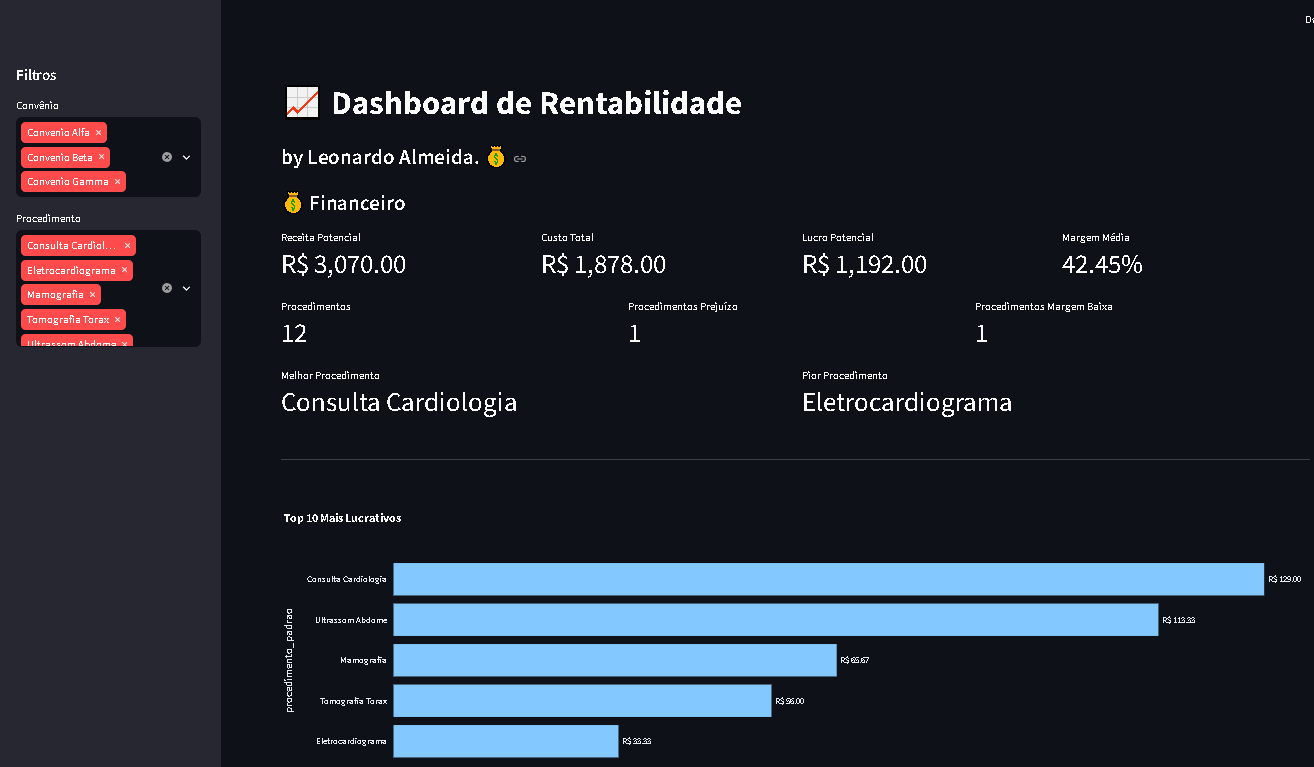
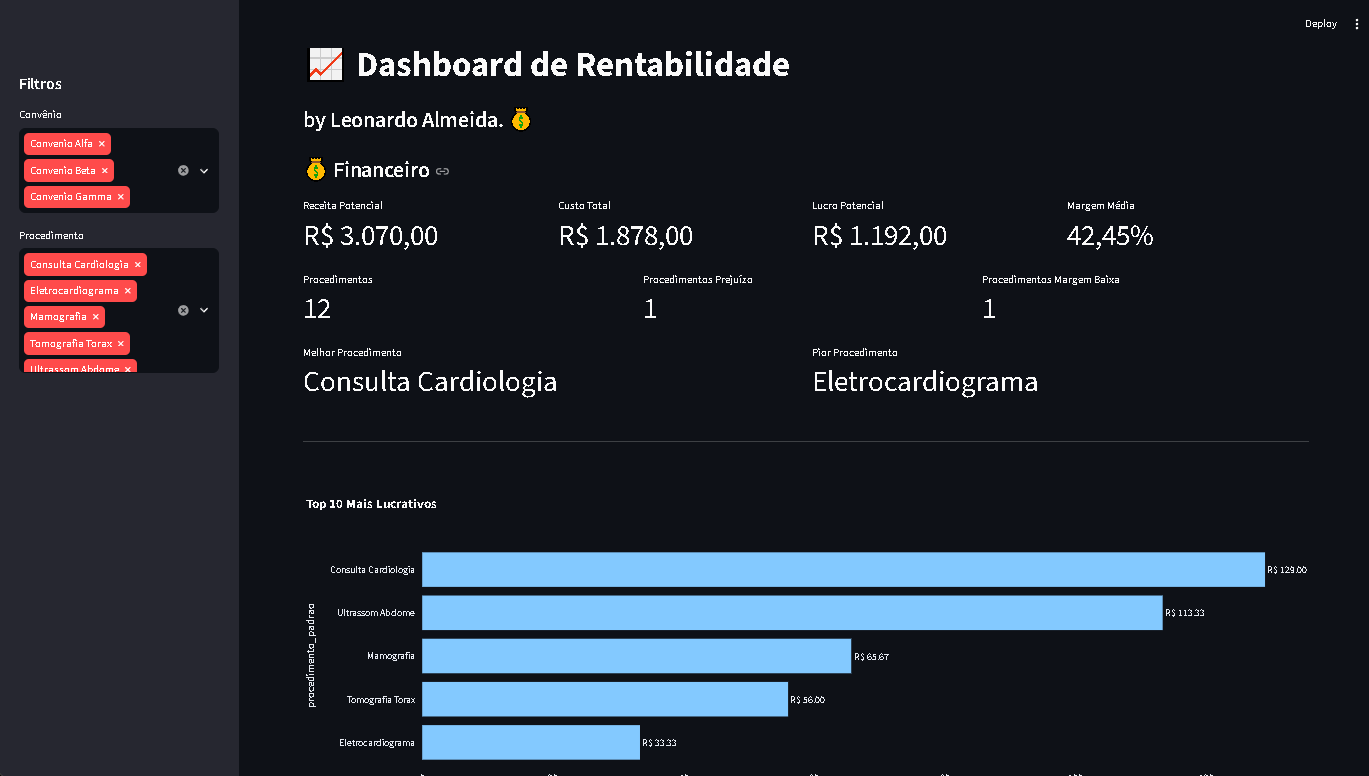
fix: update dashboard formatting and Streamlit layout

diff --git a/dashboard/app.py b/dashboard/app.py
@@ -75,6 +75,15 @@ df_filtrado = df_filtrado[
 # =====================================
 # KPIs
 # =====================================
+def formatar_moeda(valor):
+    return (
+        f"R$ {valor:,.2f}"
+        .replace(",", "X")
+        .replace(".", ",")
+        .replace("X", ".")
+    )
+def formatar_percentual(valor):
+    return f"{valor:.2f}%".replace(".", ",")
 
 receita_total = (
     df_filtrado["receita_media"]
@@ -138,22 +147,22 @@ col1, col2, col3, col4 = st.columns(4)
 
 col1.metric(
     "Receita Potencial",
-    f"R$ {receita_total:,.2f}"
+    formatar_moeda(receita_total)
 )
 
 col2.metric(
     "Custo Total",
-    f"R$ {custo_total:,.2f}"
+    formatar_moeda(custo_total)
 )
 
 col3.metric(
     "Lucro Potencial",
-    f"R$ {lucro_total:,.2f}"
+    formatar_moeda(lucro_total)
 )
 
 col4.metric(
     "Margem Média",
-    f"{margem_media:.2f}%"
+    formatar_percentual(margem_media)
 )
 
 col5, col6, col7 = st.columns(3)
@@ -266,7 +275,7 @@ fig_prejuizo.update_traces(
 
 st.plotly_chart(
     fig_prejuizo,
-    use_container_width=True
+    width="stretch"
 )
 
 # =====================================
@@ -291,7 +300,7 @@ fig_conv = px.bar(
 
 st.plotly_chart(
     fig_conv,
-    use_container_width=True
+    width="stretch"
 )
 
 # =====================================
@@ -339,7 +348,7 @@ fig_rank.update_yaxes(
 
 st.plotly_chart(
     fig_rank,
-    use_container_width=True
+    width="stretch"
 )
 
 # =====================================
@@ -374,7 +383,7 @@ fig_comp = px.scatter(
 
 st.plotly_chart(
     fig_comp,
-    use_container_width=True
+    width="stretch"
 )
 
 # =====================================
@@ -396,7 +405,7 @@ st.subheader(
 
 st.dataframe(
     heatmap.style.format("{:.2f}%"),
-    use_container_width=True
+    width="stretch"
 )
 
 # =====================================
@@ -428,5 +437,5 @@ st.dataframe(
             "margem_percentual": "{:.2f}%"
         }
     ),
-    use_container_width=True
+    width="stretch"
 )
